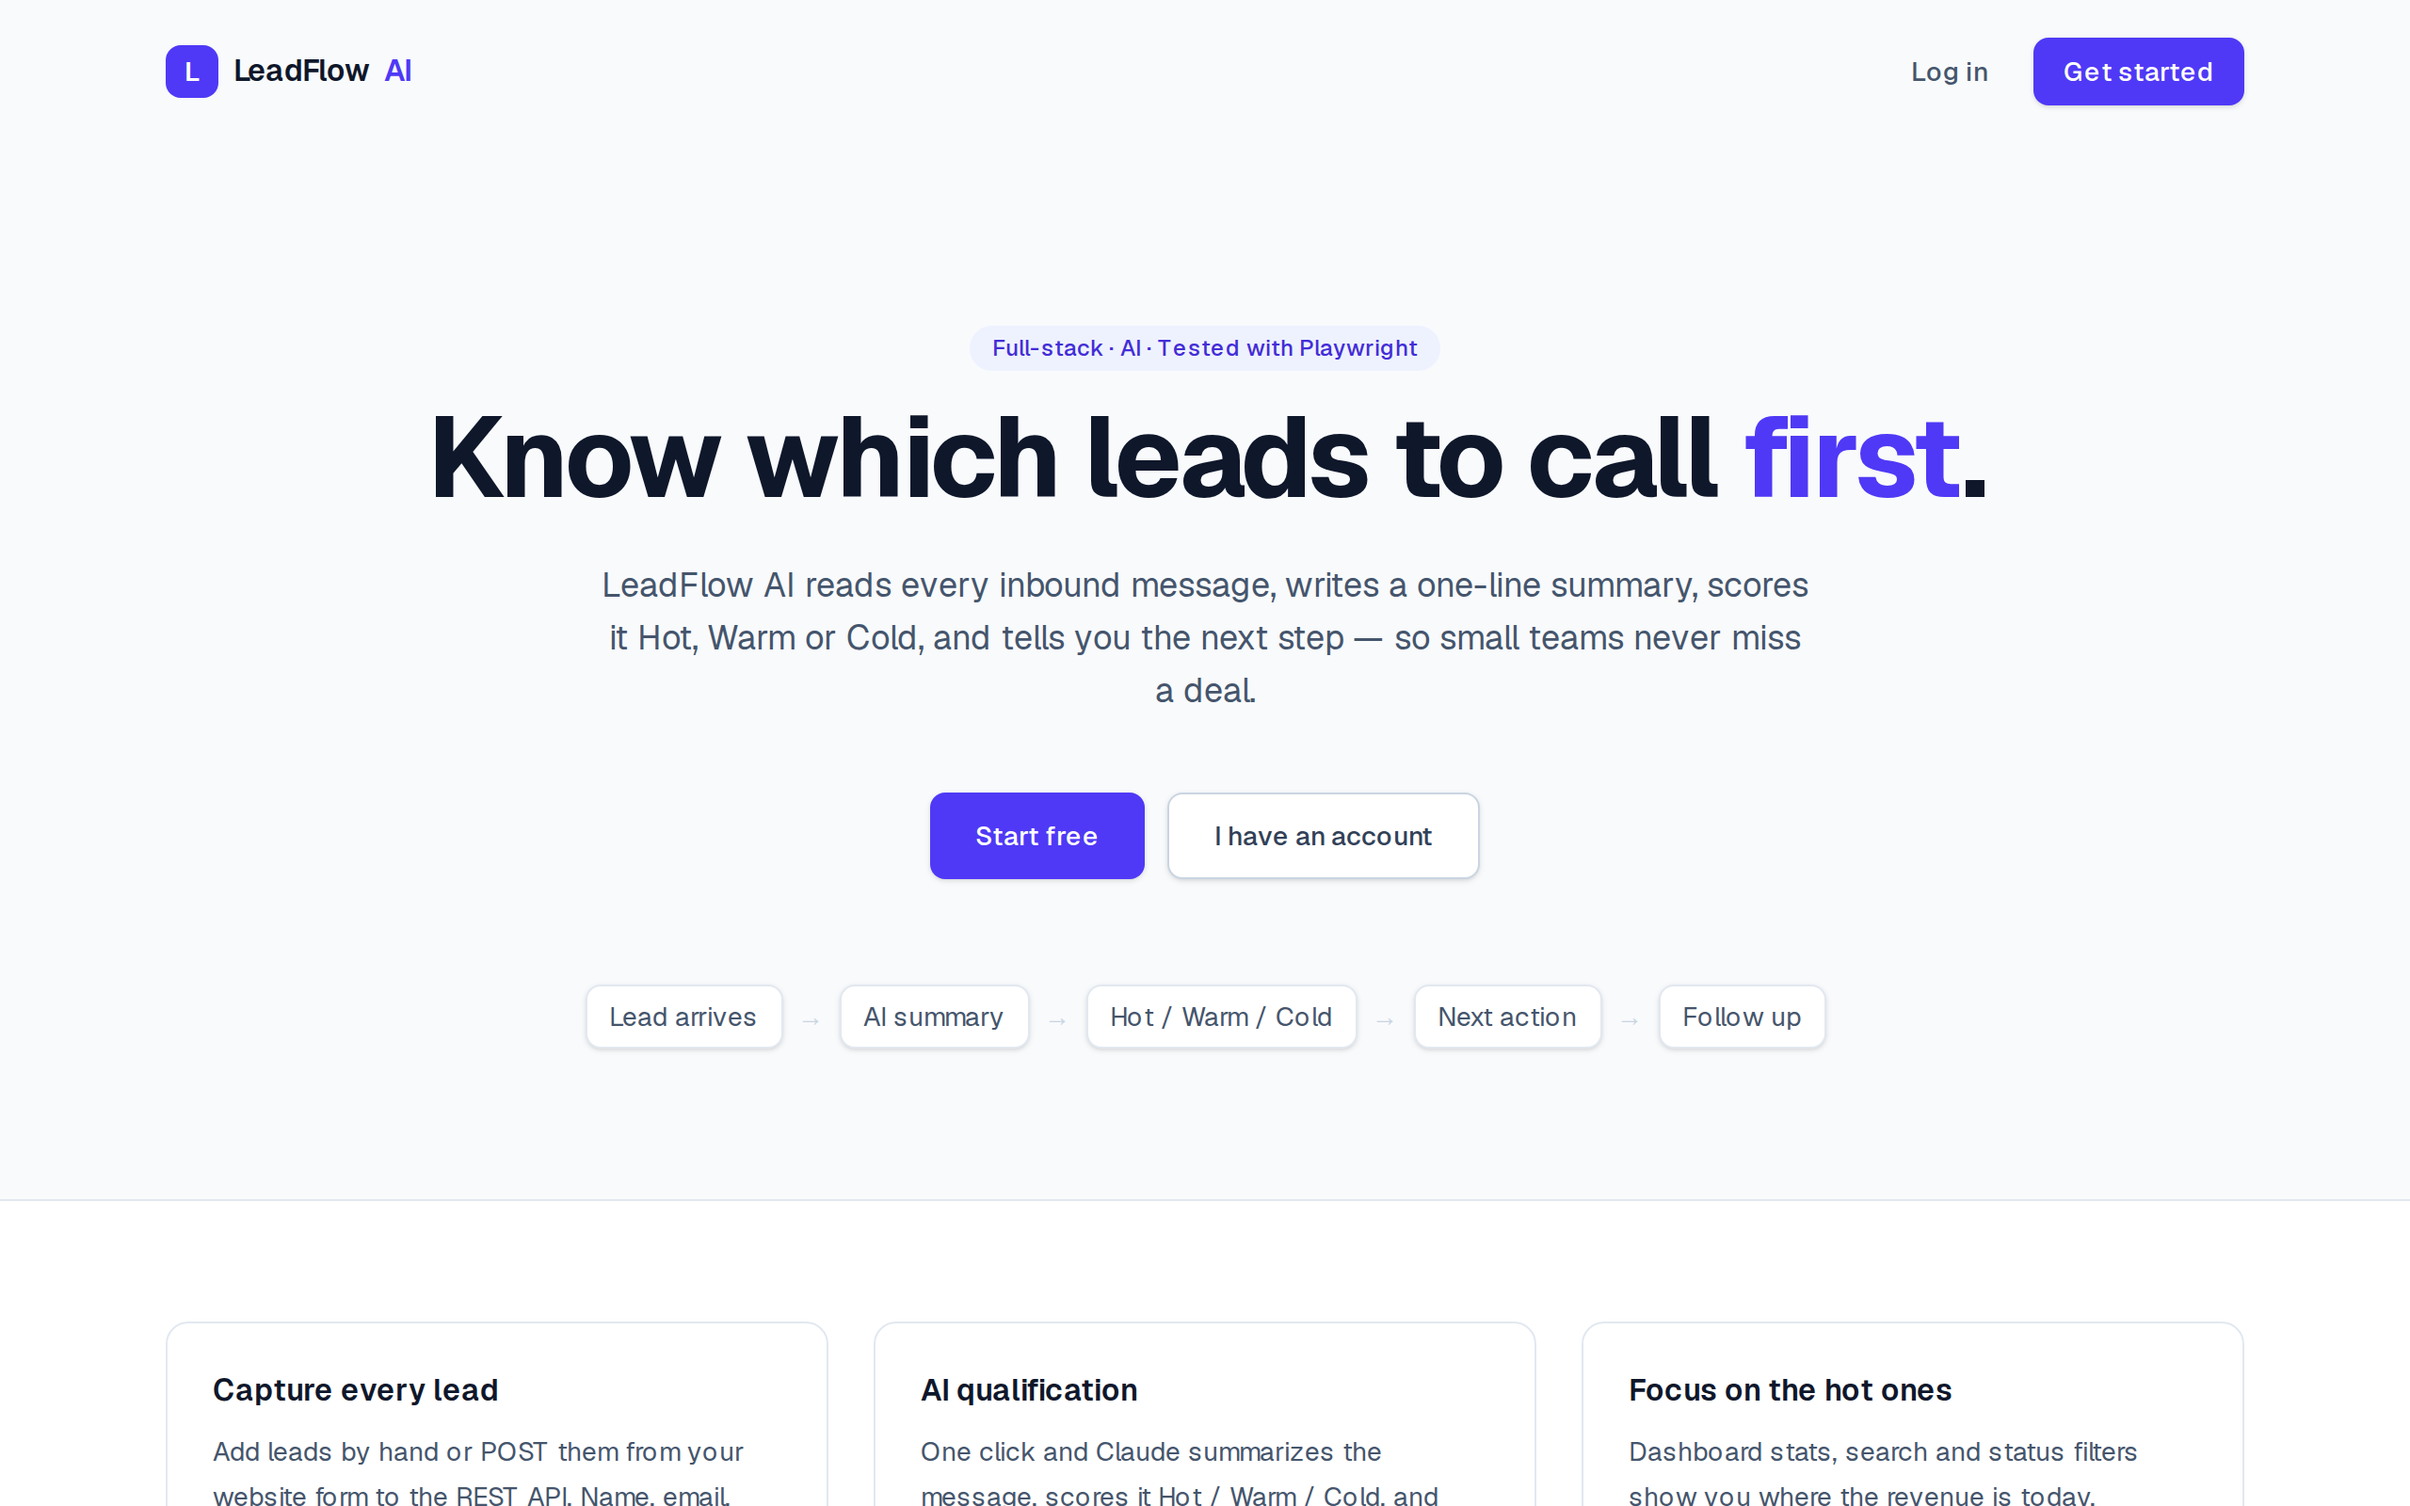
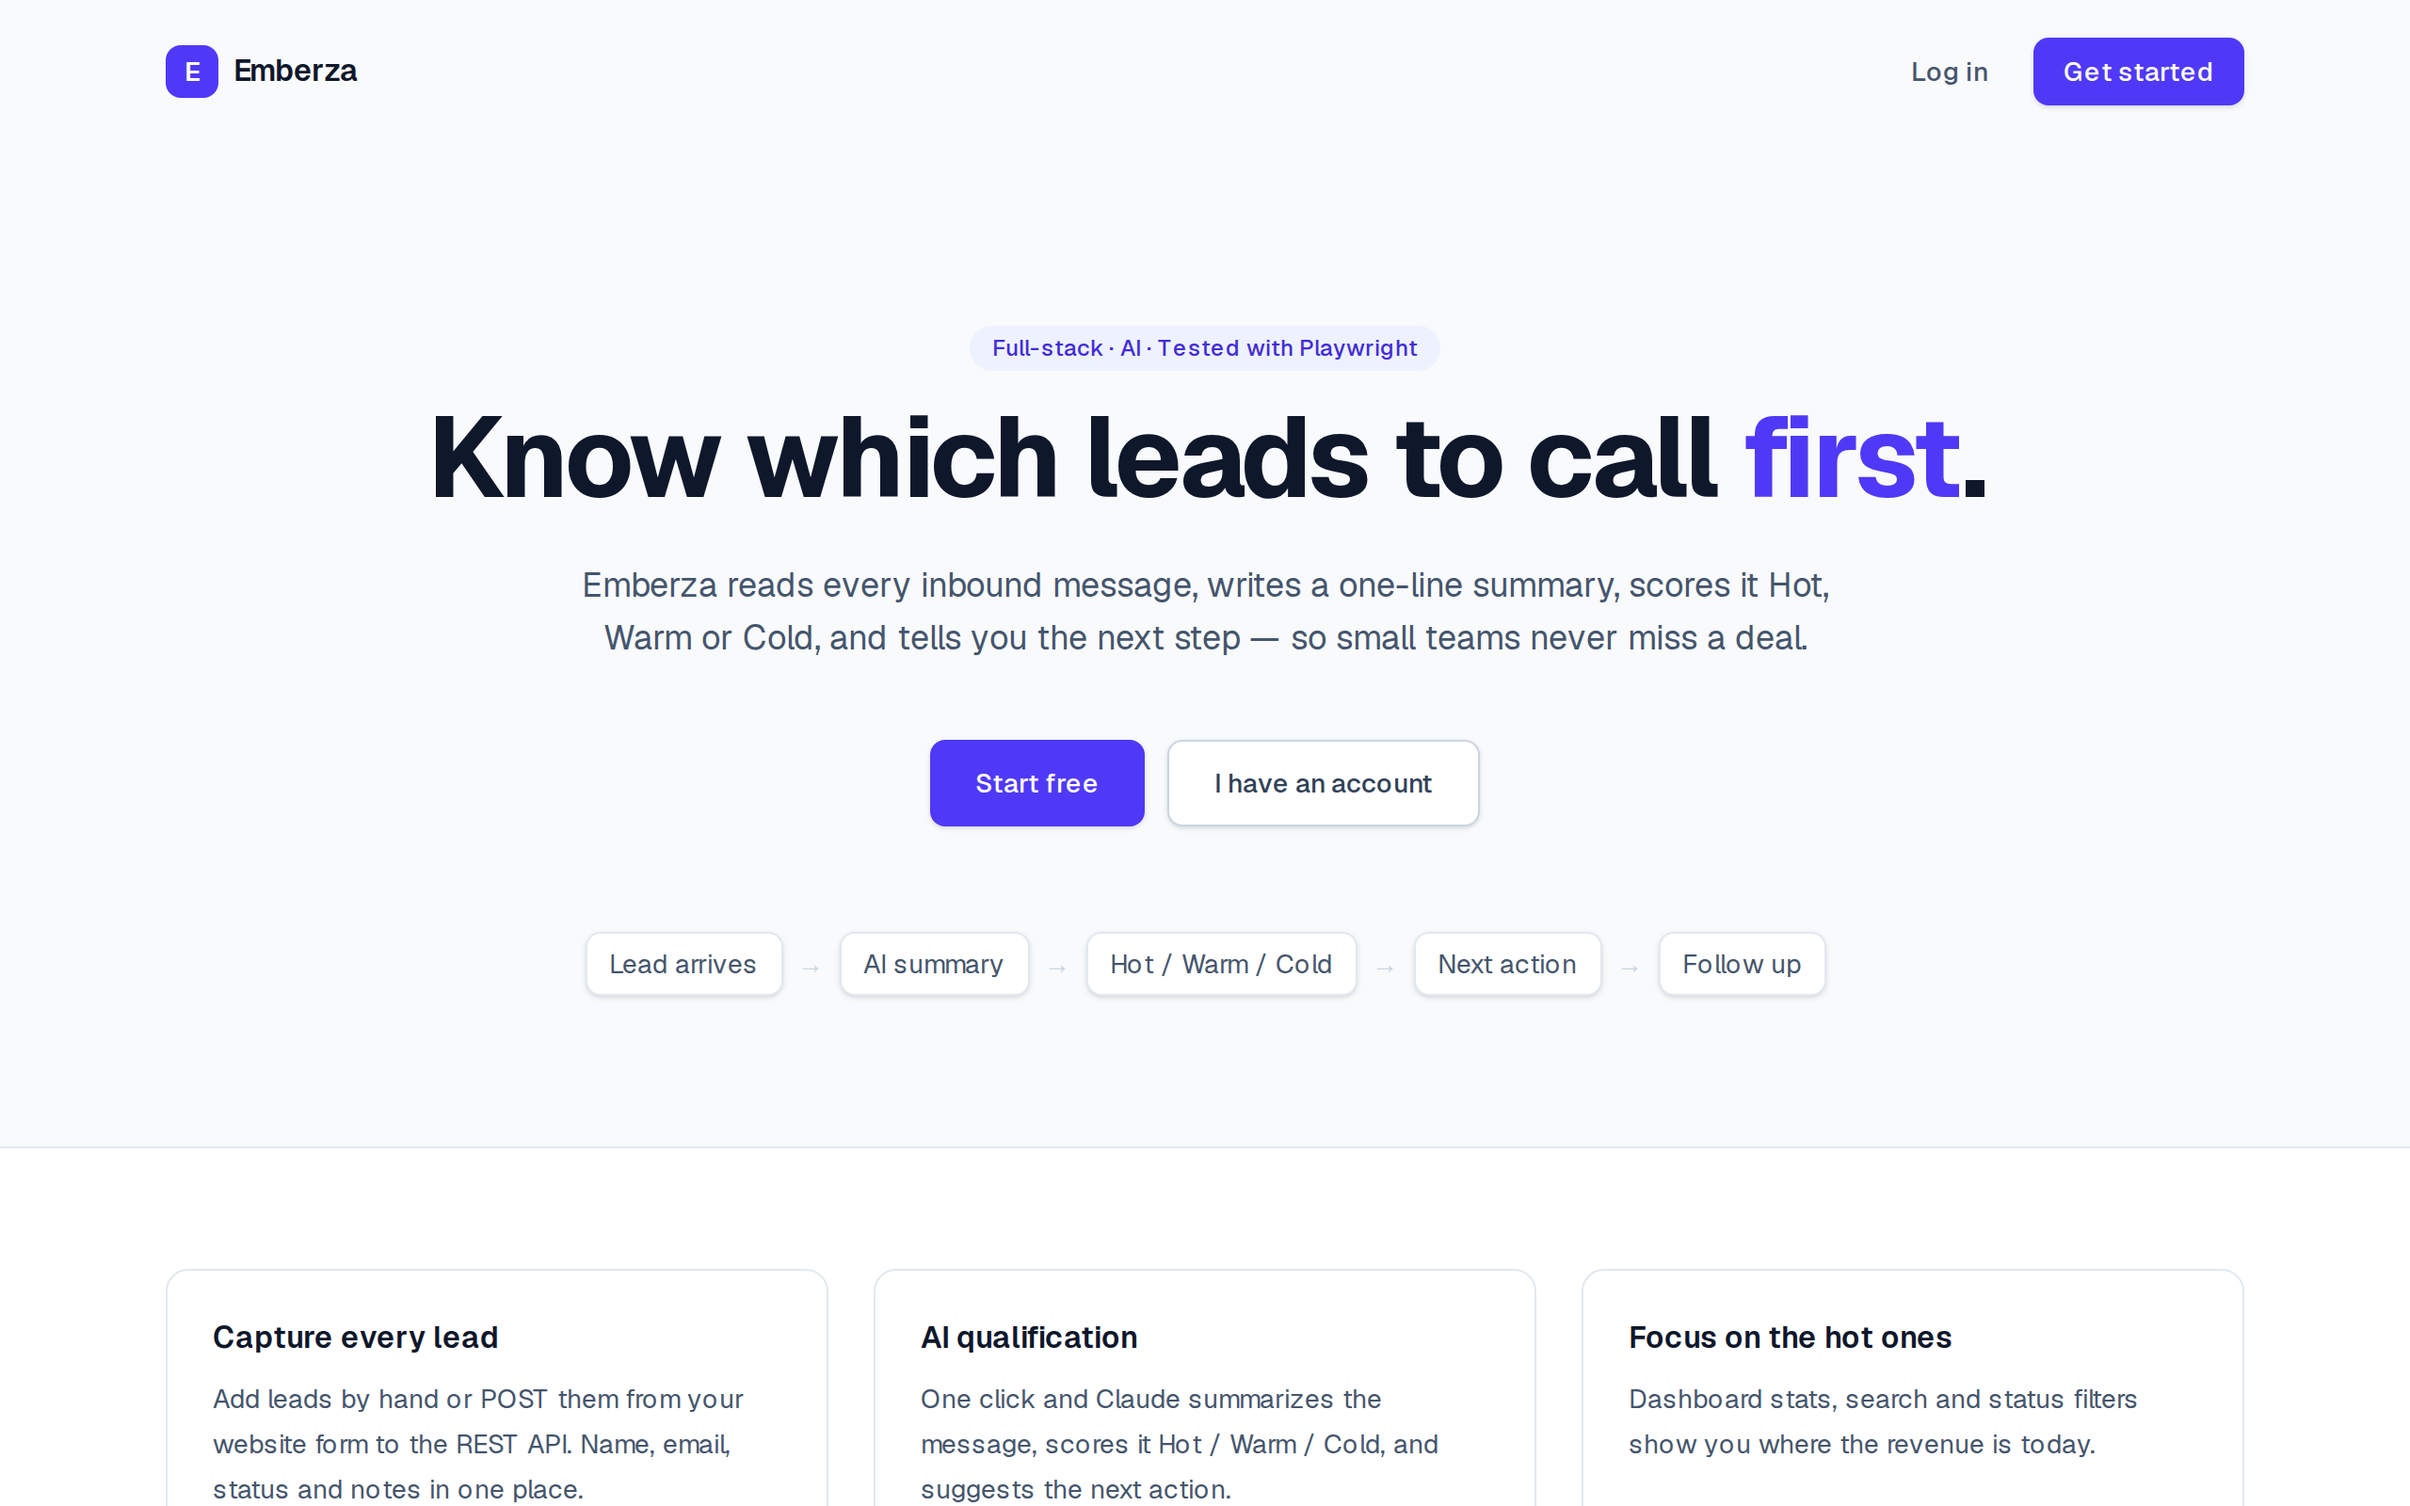
Rename LeadFlow AI to Emberza
Covers the UI, page titles, Telegram test message, docs, demo account
email and screenshots. The session cookie, database names and
GitHub/Vercel URLs are unchanged.

diff --git a/prisma/seed.ts b/prisma/seed.ts
@@ -1,4 +1,4 @@
-// Demo data: `npm run db:seed` → log in as demo@leadflow.dev / demo12345
+// Demo data: `npm run db:seed` → log in as demo@emberza.dev / demo12345
 import "dotenv/config";
 import bcrypt from "bcryptjs";
 import { PrismaPg } from "@prisma/adapter-pg";
@@ -34,9 +34,9 @@ const leads = [
 
 async function main() {
   const user = await db.user.upsert({
-    where: { email: "demo@leadflow.dev" },
+    where: { email: "demo@emberza.dev" },
     update: {},
-    create: { name: "Demo User", email: "demo@leadflow.dev", passwordHash: await bcrypt.hash("demo12345", 10) },
+    create: { name: "Demo User", email: "demo@emberza.dev", passwordHash: await bcrypt.hash("demo12345", 10) },
   });
   await db.automationRun.deleteMany({ where: { ownerId: user.id } });
   await db.lead.deleteMany({ where: { ownerId: user.id } });
@@ -50,7 +50,7 @@ async function main() {
       },
     });
   }
-  console.log(`Seeded ${leads.length} leads for demo@leadflow.dev (password: demo12345)`);
+  console.log(`Seeded ${leads.length} leads for demo@emberza.dev (password: demo12345)`);
 }
 
 main().finally(() => db.$disconnect());

diff --git a/scripts/set-admin.ts b/scripts/set-admin.ts
@@ -8,7 +8,8 @@ import "dotenv/config";
 import { PrismaPg } from "@prisma/adapter-pg";
 import { PrismaClient } from "../src/generated/prisma/client";
 
-const DEMO_EMAIL = "demo@leadflow.dev"; // its password is public
+// Their passwords are public. The old address may still exist in deployed databases.
+const DEMO_EMAILS = ["demo@emberza.dev", "demo@leadflow.dev"];
 
 async function main() {
   const [command, rawEmail] = process.argv.slice(2);
@@ -18,7 +19,7 @@ async function main() {
   if (command !== "list" && !(["grant", "revoke"].includes(command) && email)) {
     throw new Error("Usage: npm run admin -- <grant|revoke> <email>  |  npm run admin -- list");
   }
-  if (command === "grant" && email === DEMO_EMAIL) {
+  if (command === "grant" && email && DEMO_EMAILS.includes(email)) {
     throw new Error("Refusing: the demo account's password is public.");
   }
 

diff --git a/src/app/page.tsx b/src/app/page.tsx
@@ -38,7 +38,7 @@ export default function Home() {
             Know which leads to call <span className="text-indigo-600">first</span>.
           </h1>
           <p className="mx-auto mt-6 max-w-2xl text-lg text-pretty text-slate-600">
-            LeadFlow AI reads every inbound message, writes a one-line summary, scores it Hot, Warm or Cold, and tells you the next step — so small teams never miss a deal.
+            Emberza reads every inbound message, writes a one-line summary, scores it Hot, Warm or Cold, and tells you the next step — so small teams never miss a deal.
           </p>
           <div className="mt-10 flex flex-wrap justify-center gap-3">
             <ButtonLink href="/register" className="px-6 py-3 text-base">Start free</ButtonLink>

diff --git a/src/app/actions/automation.ts b/src/app/actions/automation.ts
@@ -30,7 +30,7 @@ export async function sendTelegramTestAction(): Promise<TestState> {
   const cfg = await db.user.findUniqueOrThrow({ where: { id: user.id }, select: { telegramBotToken: true, telegramChatId: true } });
   if (!cfg.telegramBotToken || !cfg.telegramChatId) return { error: "Save a bot token and chat ID first." };
   try {
-    await sendTelegram(cfg.telegramBotToken, cfg.telegramChatId, "✅ LeadFlow AI is connected. New website leads will appear here.");
+    await sendTelegram(cfg.telegramBotToken, cfg.telegramChatId, "✅ Emberza is connected. New website leads will appear here.");
     return { ok: true };
   } catch (err) {
     return { error: err instanceof IntegrationError ? err.message : "Could not reach Telegram." };

diff --git a/docs/google-sheets-apps-script.js b/docs/google-sheets-apps-script.js
@@ -1,8 +1,8 @@
 /**
- * LeadFlow AI → Google Sheets
+ * Emberza → Google Sheets
  * 1. Open your sheet → Extensions → Apps Script, paste this file, Save.
  * 2. Deploy → New deployment → Web app. Execute as: Me. Who has access: Anyone.
- * 3. Copy the web app URL (https://script.google.com/macros/s/…/exec) into LeadFlow → Automation.
+ * 3. Copy the web app URL (https://script.google.com/macros/s/…/exec) into Emberza → Automation.
  */
 const HEADERS = ["createdAt", "name", "email", "company", "temperature", "summary", "nextAction", "message"];
 

diff --git a/e2e/admin.spec.ts b/e2e/admin.spec.ts
@@ -16,7 +16,9 @@ test.describe("Admin", () => {
   });
 
   test("the admin script refuses the public demo account and unknown emails", () => {
-    expect(() => adminScript("grant", "demo@leadflow.dev")).toThrow(/Refusing/);
+    for (const email of ["demo@emberza.dev", "demo@leadflow.dev"]) {
+      expect(() => adminScript("grant", email)).toThrow(/Refusing/);
+    }
     test.skip(!!process.env.BASE_URL, "needs direct database access");
     expect(() => adminScript("grant", "nobody@example.invalid")).toThrow(/No account/);
   });

diff --git a/src/components/logo.tsx b/src/components/logo.tsx
@@ -3,8 +3,8 @@ import Link from "next/link";
 export function Logo({ href = "/" }: { href?: string }) {
   return (
     <Link href={href} className="flex items-center gap-2 font-semibold tracking-tight text-slate-900">
-      <span className="grid size-7 place-items-center rounded-lg bg-indigo-600 text-sm text-white">L</span>
-      LeadFlow <span className="text-indigo-600">AI</span>
+      <span className="grid size-7 place-items-center rounded-lg bg-indigo-600 text-sm text-white">E</span>
+      Emberza
     </Link>
   );
 }

diff --git a/src/app/layout.tsx b/src/app/layout.tsx
@@ -6,7 +6,7 @@ const geistSans = Geist({ variable: "--font-geist-sans", subsets: ["latin"] });
 const geistMono = Geist_Mono({ variable: "--font-geist-mono", subsets: ["latin"] });
 
 export const metadata: Metadata = {
-  title: { default: "LeadFlow AI — AI lead qualification", template: "%s · LeadFlow AI" },
+  title: { default: "Emberza — AI lead qualification", template: "%s · Emberza" },
   description: "Capture leads, let AI summarize and score them Hot / Warm / Cold, and know exactly what to do next.",
 };
 

diff --git a/scripts/seed-remote.ts b/scripts/seed-remote.ts
@@ -4,7 +4,7 @@ import { chromium } from "@playwright/test";
 
 const base = process.env.BASE_URL;
 if (!base) throw new Error("Set BASE_URL");
-const demo = { name: "Demo User", email: "demo@leadflow.dev", password: "demo12345" };
+const demo = { name: "Demo User", email: "demo@emberza.dev", password: "demo12345" };
 
 const leads = [
   { name: "Sarah Chen", email: "sarah@brightdental.com", company: "Bright Dental", status: "QUALIFIED",

diff --git a/scripts/screenshots.ts b/scripts/screenshots.ts
@@ -12,7 +12,7 @@ async function main() {
   await page.screenshot({ path: `${out}/landing.png` });
 
   await page.goto(`${base}/login`);
-  await page.getByLabel("Email").fill("demo@leadflow.dev");
+  await page.getByLabel("Email").fill("demo@emberza.dev");
   await page.getByLabel("Password").fill("demo12345");
   await page.getByRole("button", { name: "Log in" }).click();
   await page.waitForURL("**/dashboard");

diff --git a/README.md b/README.md
@@ -1,8 +1,8 @@
-# LeadFlow AI
+# Emberza
 
 **AI lead qualification for small teams.** Capture inbound leads from your website, let Claude summarize each message, score it **Hot / Warm / Cold**, and suggest the next action — so you always know who to call first.
 
-**Live demo:** https://leadflow-ai-eight-sigma.vercel.app — log in with `demo@leadflow.dev` / `demo12345` (shared demo account, reset from time to time).
+**Live demo:** https://leadflow-ai-eight-sigma.vercel.app — log in with `demo@emberza.dev` / `demo12345` (shared demo account, reset from time to time).
 
 Full-stack Next.js app with a REST API, PostgreSQL, session auth, AI integration, and a Playwright end-to-end suite running in GitHub Actions.
 
@@ -54,7 +54,7 @@ cp .env.example .env            # then set SESSION_SECRET (openssl rand -base64 
 npm install
 npm run db:up                   # Postgres in Docker on :5435
 npm run db:migrate
-npm run db:seed                 # demo@leadflow.dev / demo12345
+npm run db:seed                 # demo@emberza.dev / demo12345
 npm run dev                     # http://localhost:3100
 ```
 

diff --git a/docs/AUTOMATION.md b/docs/AUTOMATION.md
@@ -1,6 +1,6 @@
 # Website form → AI → Google Sheets → Telegram
 
-LeadFlow's automation turns any website contact form into a qualified, logged, notified lead — without the visitor waiting.
+Emberza's automation turns any website contact form into a qualified, logged, notified lead — without the visitor waiting.
 
 ```
 Website form ──POST──► /api/forms/:formKey
